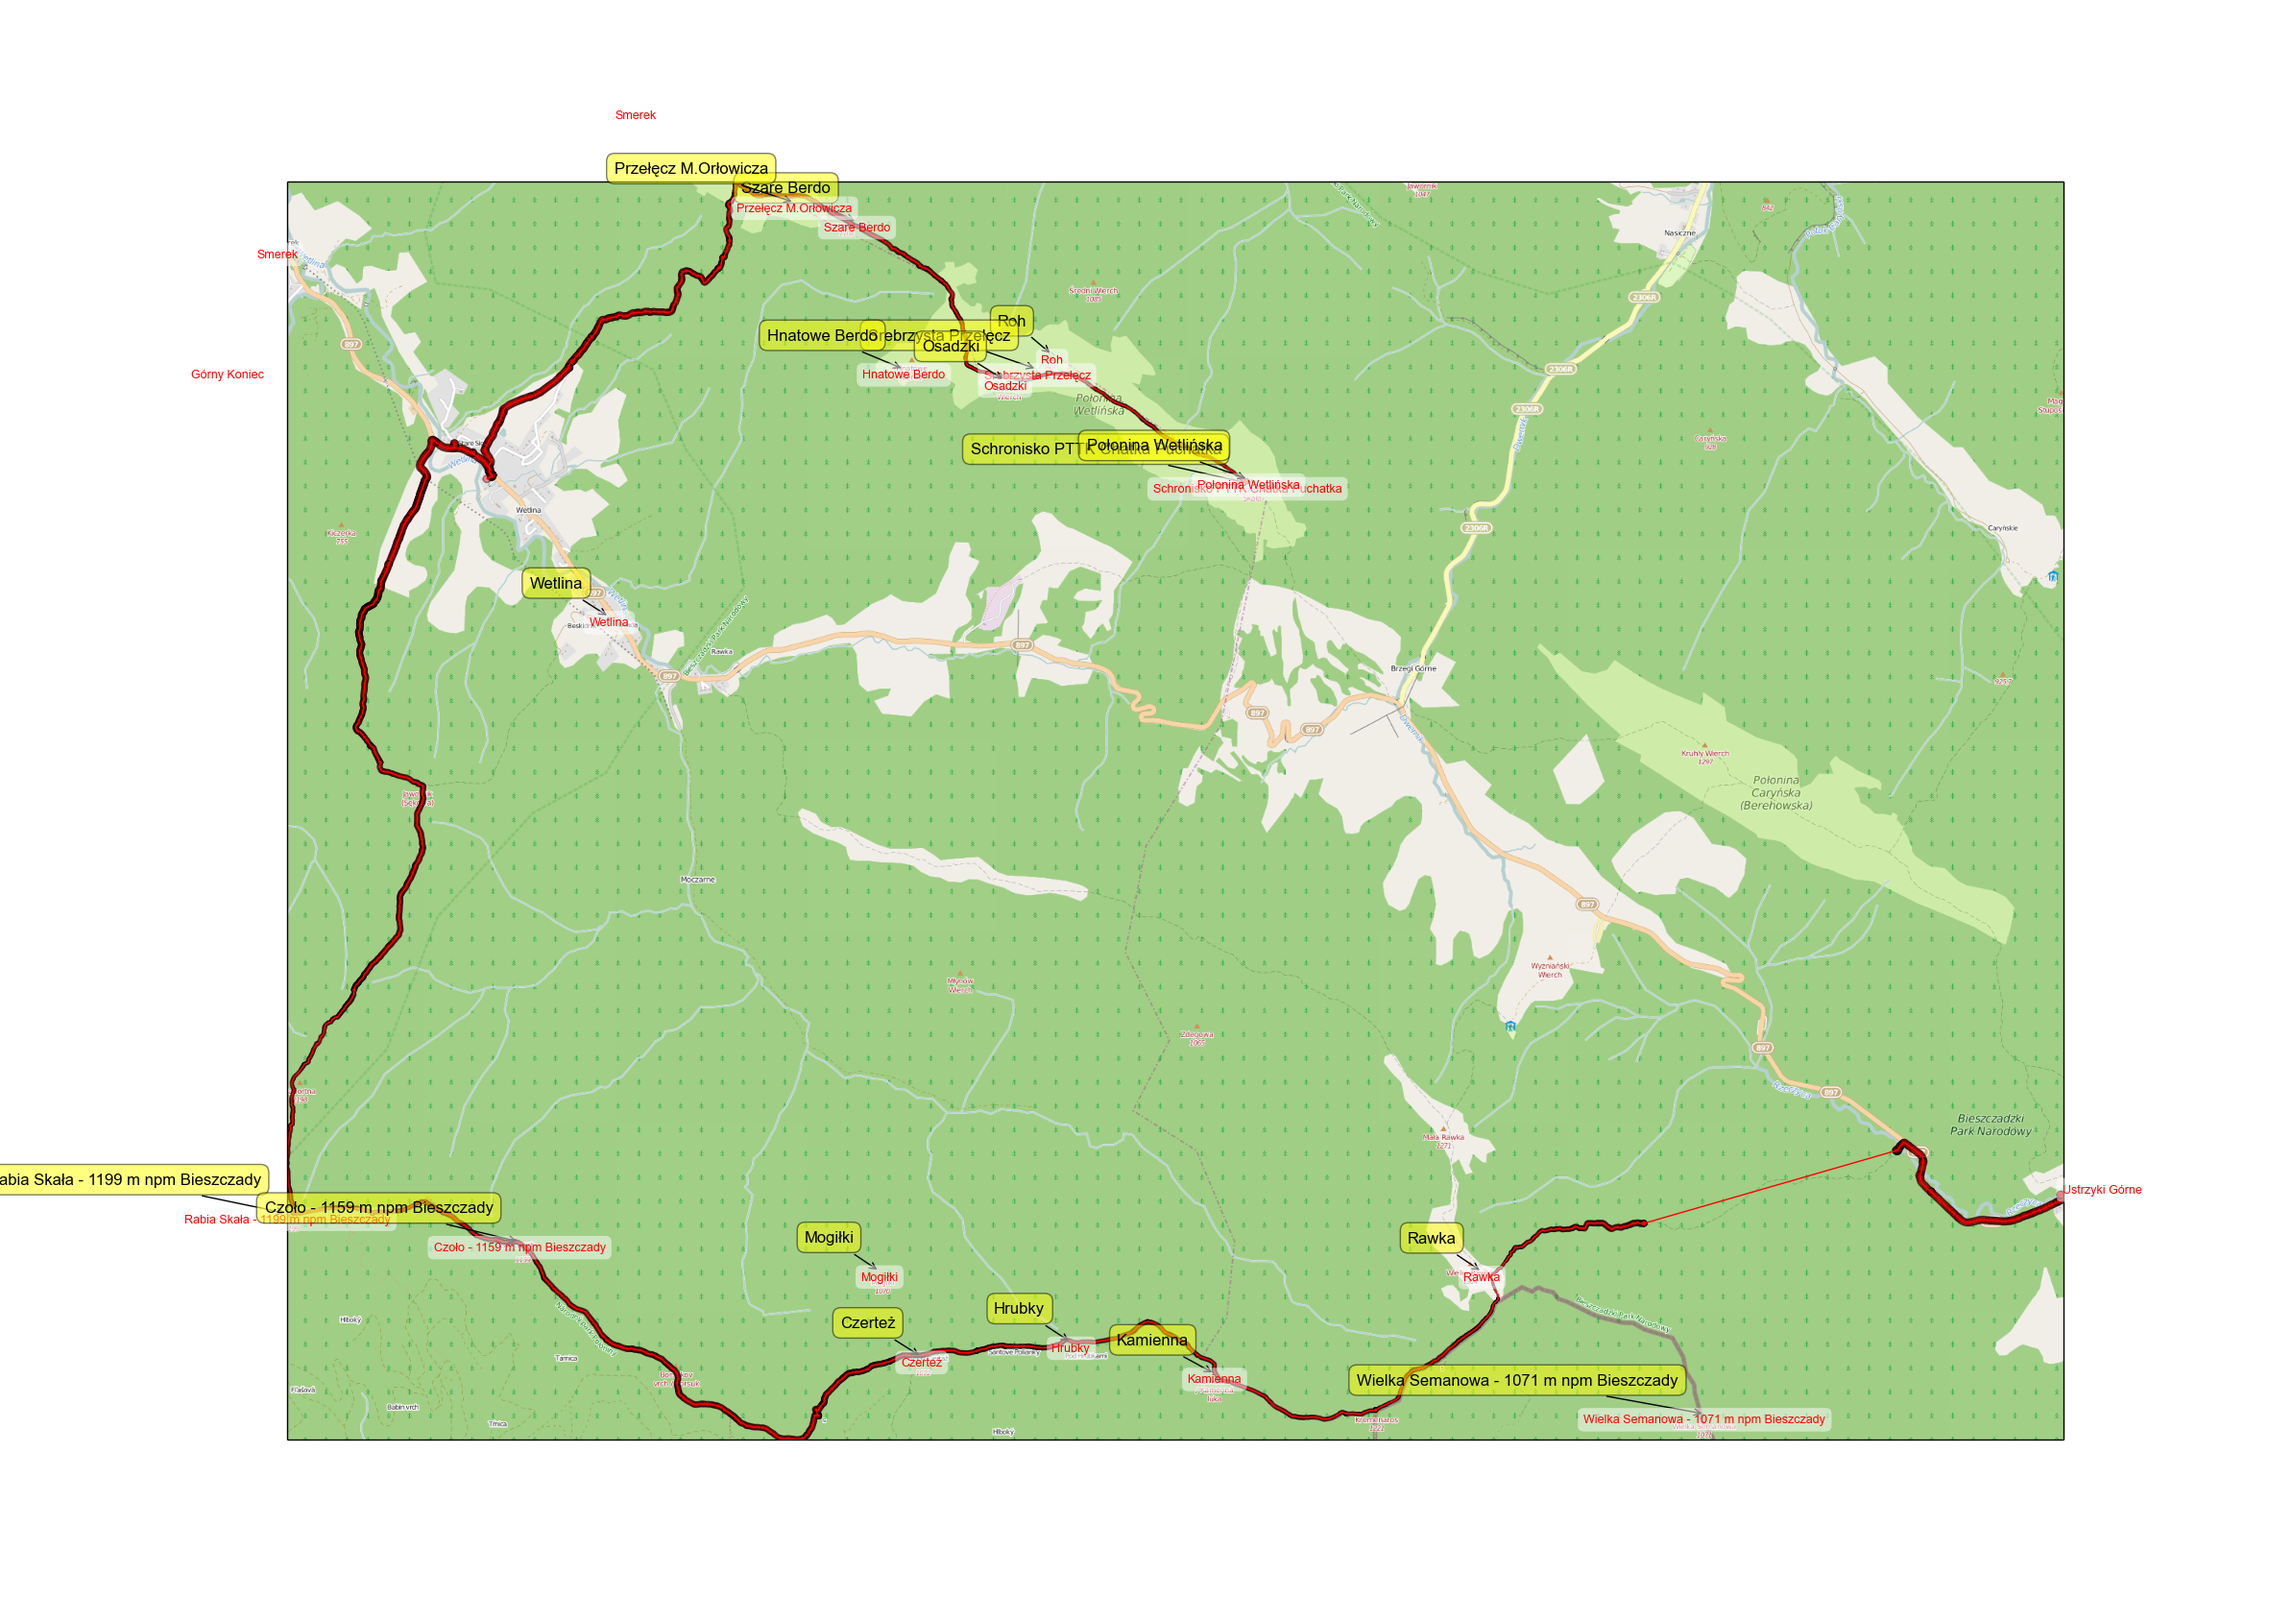
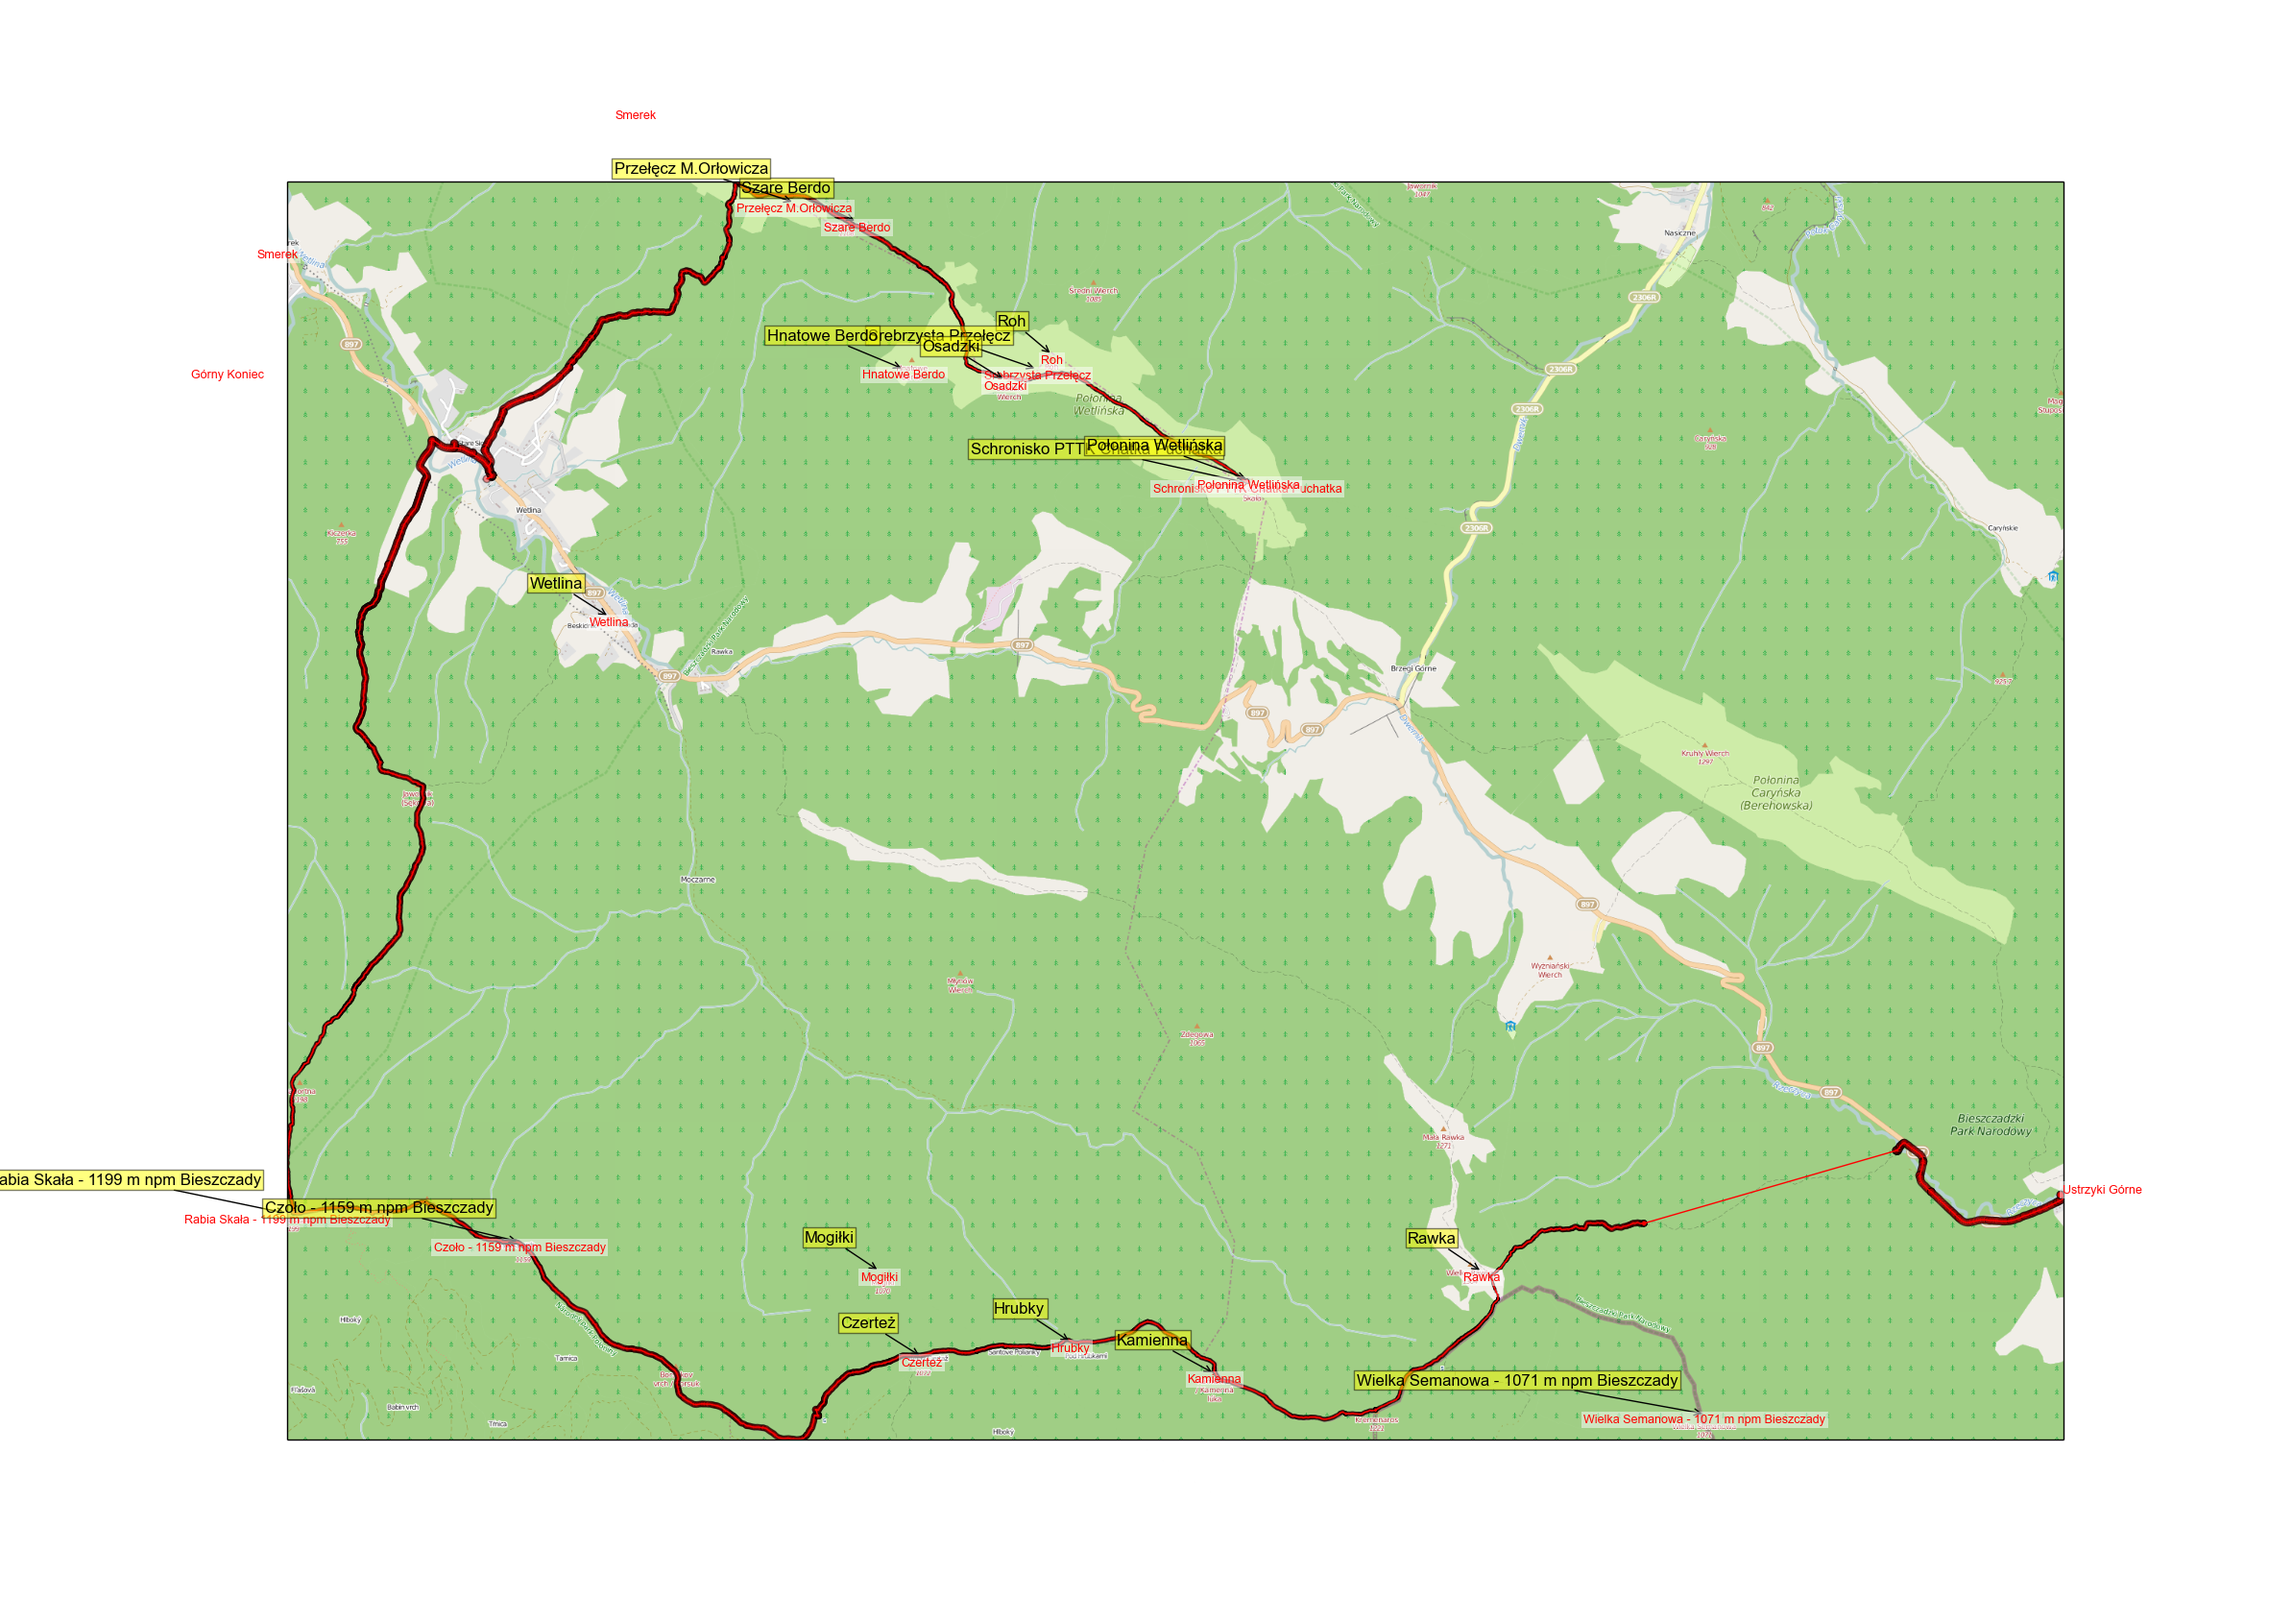
geoNames - working version.

diff --git a/examples/geoNames/geoNamesAdapter.py b/examples/geoNames/geoNamesAdapter.py
@@ -7,10 +7,6 @@ class geoNamesAdapterCommon():
     def __init__(self):
         pass
 
-# class CustomDictOne(dict):
-#    def __init__(self,*arg,**kw):
-#       super(CustomDictOne, self).__init__(*arg, **kw)
-
 class geoNamesAdapter(geoNamesAdapterCommon, list):
     def __init__(self, *arg,**kw):
         geoNamesAdapterCommon.__init__(self)
@@ -91,23 +87,22 @@ class geoNamesAdapterCsvFile_geoNames(geoNamesAdapterCsvFile):
         geoNamesAdapterCsvFile.__init__(self, filename, delimiterSecuence = "\t")
 
         for row in self.reader:
-            print(row)
+ #           print(row)
             self.addGeoName(name=row[1], longitude=float(row[5]), latitude=float(row[4]))
 
 class geoNamesAdapterCsvFile_geoPortal(geoNamesAdapterCsvFile):
     def __init__(self, filename = None):
         geoNamesAdapterCsvFile.__init__(self, filename, delimiterSecuence = ",")
         for row in self.reader:
-#"identyfikator PRNG","nazwa główna","rodzaj obiektu","klasa obiektu","obiekt nadrzędny",dopełniacz,przymiotnik,uwagi,"źródło informacji","element rozróżniający","element rodzajowy","wymowa IPA","wymowa polska","szerokość geograficzna","długość geograficzna","współrzędne prostokątne Y","współrzędne prostokątne X","data modyfikacji","rodzaj reprezentacji","system zewnetrzny","identyfikator zewnętrzny","skala mapy","status nazwy","nazwa dodatkowa","kod języka nazwy dodatkowej","język nazwy dodatkowej","latynizacja nazwy dodatkowej","nazwa historyczna","nazwa oboczna","uwagi nazw dodatkowych","uwagi nazw historycznych","uwagi nazw obocznych","obcy egzonim","pismo egzonimu","język egzonimu","latynizacja egzonimu","zagraniczny endonim","pismo endonimu","język endonimu","latynizacja endonimu",państwo,województwo,powiat,gmina,"identyfikator jednostki podziału terytorialnego kraju","data wprowadzenia","data zniesienia lub usunięcia"
-#                   0             1                2               3                  4           5           6     7                  8                       9                   10         11               12                       13                     14
-#             print(row)
-#             for i,field in enumerate(row):
-#                 print("{0}: {1}". format(i, field))
-#
-            print("name: {0} longitude: {1} latitude: {2}".format(row[1], row[13], row[14]))
-            self.addGeoName(name=row[1], longitude= self.dms2dec(row[13]), latitude=self.dms2dec(row[14]))
+#            print("name: {0} longitude: {1} latitude: {2}".format(row[1], row[13], row[14]))
+            self.addGeoName(name=row[1], longitude= self.dms2dec(row[14]), latitude=self.dms2dec(row[13]))
 
 if __name__ == "__main__":
     _geoNamesAdapterCsvFile_geoNames = geoNamesAdapterCsvFile_geoNames("./PL.txt")
     _geoNamesAdapterCsvFile_geoPortal = geoNamesAdapterCsvFile_geoPortal("./obiekty_fizjograficzne.csv")
 
+    for i, geoName in enumerate(_geoNamesAdapterCsvFile_geoNames):
+        print("{0}: {1}".format(i, geoName))
+
+    for i, geoName in enumerate(_geoNamesAdapterCsvFile_geoPortal):
+        print("{0}: {1}".format(i, geoName))

diff --git a/examples/geoNames/geoNames.py b/examples/geoNames/geoNames.py
@@ -1,7 +1,39 @@
 
+from examples import gpxpy
+from geoNamesAdapter import *
+from rtree import index
 
 class geoNamesCommon():
-    pass
+    def __init__(self):
+        pass
 
-class geoNames(geoNamesCommon):
-    pass
+class geoNames(geoNamesCommon, list):
+
+    def __init__(self, geoPoints=None, geoNamesAdapter=None, *arg,**kw):
+        geoNamesCommon.__init__(self)
+        super(geoNames, self).__init__(*arg, **kw)
+
+        if(geoPoints!=None and geoNamesAdapter!=None):
+            rtreeIdx = index.Index()
+            for i, geoName in enumerate(geoNamesAdapter):
+                print("{0}: {1}".format(i, geoName))
+                rtreeIdx.insert(i, (geoName["longitude"], geoName["latitude"], geoName["longitude"], geoName["latitude"]), obj=geoName)
+
+            for i, geoPoint in enumerate(geoPoints):
+                print("-{0}- {1}, {2}:".format(i, geoPoint.latitude, geoPoint.longitude))
+                obj = list(rtreeIdx.nearest((geoPoint.longitude, geoPoint.latitude, geoPoint.longitude, geoPoint.latitude), objects=True))[0].object
+                if obj not in self:
+                    self.append(obj)
+
+if __name__ == "__main__":
+
+    _geoNamesAdapterCsvFile_geoNames = geoNamesAdapterCsvFile_geoNames("./PL.txt")
+    _geoNamesAdapterCsvFile_geoPortal = geoNamesAdapterCsvFile_geoPortal("./obiekty_fizjograficzne.csv")
+
+    gpx_file = open('../aa.gpx', 'r')
+    gpx = gpxpy.parse(gpx_file)
+    points = gpx.tracks[0].segments[0].points
+
+    geoNamesGpx = geoNames(points, _geoNamesAdapterCsvFile_geoPortal)
+    for i, geoNameGpx in enumerate(geoNamesGpx):
+        print(geoNameGpx)

diff --git a/examples/ex-basemap.py b/examples/ex-basemap.py
@@ -273,12 +273,13 @@ for keyObject in keyObjects:
         keyObject["name"],
         xy, xytext = (-20, 20),
         textcoords = 'offset points', ha = 'right', va = 'bottom',
-        bbox = dict(boxstyle = 'round,pad=0.5', fc = 'yellow', alpha = 0.5),
+#        bbox = dict(boxstyle = 'round,pad=0.5', fc = 'yellow', alpha = 0.5),
+        bbox = dict(fc = 'yellow', alpha = 0.5),
         arrowprops = dict(arrowstyle = '->', connectionstyle = 'arc3,rad=0'))
 
     plt.text(xy[0], xy[1], keyObject["name"],fontsize=9,
                     ha='center',va='top',color='r',
-                    bbox = dict(boxstyle="round,pad=0.5",ec='None',fc=(1,1,1,0.5)))
+                    bbox = dict(ec='None',fc=(1,1,1,0.5)))
 
 plt.savefig('ex-basemap.png')
 plt.close()
